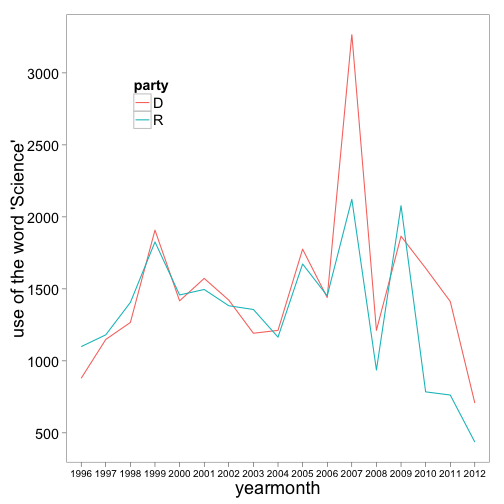
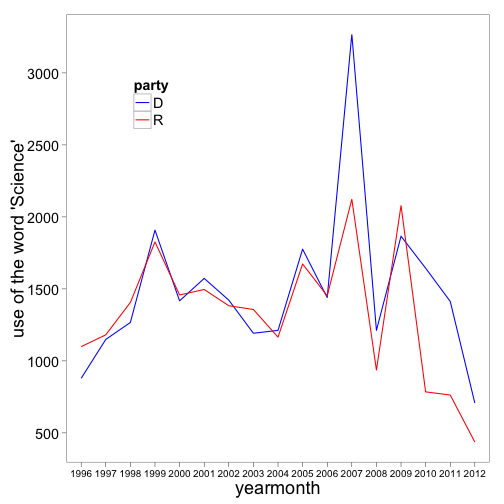
updated post with blue lines for dems and red for republicans

diff --git a/_site/2012-09-01-gov-dat.html b/_site/2012-09-01-gov-dat.html
@@ -64,11 +64,11 @@
 	<div class="row">
 	<p><h1>Getting data on your government</h1></p>	
 	<div class="span3 column">
-		<h4><strong>September  1, 2012 <small>.  . <a href="http://schamberlain.github.com/2012/09/gov-dat/#disqus_thread" data-disqus-identifier="/2012/09/gov-dat/">Comments</a></small></strong>
+		<h4><strong>September  1, 2012 <small>.  . <a href="http://schamberlain.github.com/2012-09-01-gov-dat.html#disqus_thread" data-disqus-identifier="/2012-09-01-gov-dat.html">Comments</a></small></strong>
 		<br/><small>Tags:  <a href="/tags/R" title="View posts tagged with &quot;R&quot;"><u>R</u></a>     <a href="/tags/government" title="View posts tagged with &quot;government&quot;"><u>government</u></a>     <a href="/tags/nytimes" title="View posts tagged with &quot;nytimes&quot;"><u>nytimes</u></a>     <a href="/tags/sunlightlabs" title="View posts tagged with &quot;sunlightlabs&quot;"><u>sunlightlabs</u></a>     <a href="/tags/API" title="View posts tagged with &quot;API&quot;"><u>API</u></a>     <a href="/tags/transparency" title="View posts tagged with &quot;transparency&quot;"><u>transparency</u></a>    </small></h4>
 	</div>		
 	<div class="span9 column">
-		<p class="pull-right"> <a href="/2012/08/get-ecoevo-journal-titles/" title="Previous Post: Getting ecology and evolution journal titles from R"><i class="icon-chevron-left"></i></a> 	    </p> 
+		<p class="pull-right">    </p> 
 	</div>
 </div>
 
@@ -102,9 +102,9 @@ df <span class="o">&lt;-</span> melt<span class="p">(</span>rbind<span class="p"
 df<span class="p">$</span>count <span class="o">&lt;-</span> as.numeric<span class="p">(</span>df<span class="p">$</span>count<span class="p">)</span>
 
 ggplot<span class="p">(</span>df<span class="p">,</span> aes<span class="p">(</span>yearmonth<span class="p">,</span> count<span class="p">,</span> colour <span class="o">=</span> party<span class="p">,</span> group <span class="o">=</span> party<span class="p">))</span> <span class="o">+</span> geom_line<span class="p">()</span> <span class="o">+</span> 
-    scale_colour_manual<span class="p">(</span>values <span class="o">=</span> c<span class="p">(</span><span class="s">&quot;blue&quot;</span><span class="p">,</span> <span class="s">&quot;red&quot;</span><span class="p">))</span> <span class="o">+</span> labs<span class="p">(</span>y <span class="o">=</span> <span class="s">&quot;use of the word &#39;Science&#39;&quot;</span><span class="p">)</span> <span class="o">+</span> 
-    theme_bw<span class="p">(</span>base_size <span class="o">=</span> <span class="m">18</span><span class="p">)</span> <span class="o">+</span> opts<span class="p">(</span>axis.text.x <span class="o">=</span> theme_text<span class="p">(</span>size <span class="o">=</span> <span class="m">10</span><span class="p">),</span> panel.grid.major <span class="o">=</span> theme_blank<span class="p">(),</span> 
-    panel.grid.minor <span class="o">=</span> theme_blank<span class="p">(),</span> legend.position <span class="o">=</span> c<span class="p">(</span><span class="m">0.2</span><span class="p">,</span> <span class="m">0.8</span><span class="p">))</span>
+    labs<span class="p">(</span>y <span class="o">=</span> <span class="s">&quot;use of the word &#39;Science&#39;&quot;</span><span class="p">)</span> <span class="o">+</span> theme_bw<span class="p">(</span>base_size <span class="o">=</span> <span class="m">18</span><span class="p">)</span> <span class="o">+</span> opts<span class="p">(</span>axis.text.x <span class="o">=</span> theme_text<span class="p">(</span>size <span class="o">=</span> <span class="m">10</span><span class="p">),</span> 
+    panel.grid.major <span class="o">=</span> theme_blank<span class="p">(),</span> panel.grid.minor <span class="o">=</span> theme_blank<span class="p">(),</span> legend.position <span class="o">=</span> c<span class="p">(</span><span class="m">0.2</span><span class="p">,</span> 
+        <span class="m">0.8</span><span class="p">))</span>
 </code></pre>
 </div>
 
@@ -118,7 +118,7 @@ ggplot<span class="p">(</span>df<span class="p">,</span> aes<span class="p">(</s
 <div class="highlight"><pre><code class="r">library<span class="p">(</span>plyr<span class="p">)</span>
 
 <span class="c1"># Let&#39;s get Nancy Pelosi&#39;s entity ID</span>
-sll_ts_aggregatesearch<span class="p">(</span><span class="s">&quot;Nancy Pelosi&quot;</span><span class="p">)[[</span><span class="m">1</span><span class="p">]]</span>
+sll_ts_aggregatesearch<span class="p">(</span><span class="s">&#39;Nancy Pelosi&#39;</span><span class="p">)[[</span><span class="m">1</span><span class="p">]]</span>
 </code></pre>
 </div>
 
@@ -176,7 +176,7 @@ NULL
 
 
 <div class="highlight"><pre><code class="r"><span class="c1"># Her entity ID</span>
-sll_ts_aggregatesearch<span class="p">(</span><span class="s">&quot;Nancy Pelosi&quot;</span><span class="p">)[[</span><span class="m">1</span><span class="p">]]$</span>id
+sll_ts_aggregatesearch<span class="p">(</span><span class="s">&#39;Nancy Pelosi&#39;</span><span class="p">)[[</span><span class="m">1</span><span class="p">]]$</span>id
 </code></pre>
 </div>
 
@@ -191,8 +191,8 @@ sll_ts_aggregatesearch<span class="p">(</span><span class="s">&quot;Nancy Pelosi
 
 
 <div class="highlight"><pre><code class="r"><span class="c1"># And search for her top donors by sector</span>
-nancy <span class="o">&lt;-</span> ldply<span class="p">(</span>sll_ts_aggregatetopsectors<span class="p">(</span>sll_ts_aggregatesearch<span class="p">(</span><span class="s">&quot;Nancy Pelosi&quot;</span><span class="p">)[[</span><span class="m">1</span><span class="p">]]$</span>id<span class="p">))</span>
-nancy  <span class="c1"># but just abbreviations for sectors</span>
+nancy <span class="o">&lt;-</span> ldply<span class="p">(</span>sll_ts_aggregatetopsectors<span class="p">(</span>sll_ts_aggregatesearch<span class="p">(</span><span class="s">&#39;Nancy Pelosi&#39;</span><span class="p">)[[</span><span class="m">1</span><span class="p">]]$</span>id<span class="p">))</span>
+nancy <span class="c1"># but just abbreviations for sectors</span>
 </code></pre>
 </div>
 
@@ -216,23 +216,21 @@ nancy  <span class="c1"># but just abbreviations for sectors</span>
 
 
 
-<div class="highlight"><pre><code class="r">data<span class="p">(</span>sll_ts_sectors<span class="p">)</span>  <span class="c1"># load sectors abbrevations data</span>
-nancy2 <span class="o">&lt;-</span> merge<span class="p">(</span>nancy<span class="p">,</span> sll_ts_sectors<span class="p">,</span> by <span class="o">=</span> <span class="s">&quot;sector&quot;</span><span class="p">)</span>  <span class="c1"># attach full sector names</span>
-nancy2_melt <span class="o">&lt;-</span> melt<span class="p">(</span>nancy2<span class="p">[,</span> <span class="m">-1</span><span class="p">],</span> id.vars <span class="o">=</span> <span class="m">3</span><span class="p">)</span>
+<div class="highlight"><pre><code class="r">data<span class="p">(</span>sll_ts_sectors<span class="p">)</span> <span class="c1"># load sectors abbrevations data</span>
+nancy2 <span class="o">&lt;-</span> merge<span class="p">(</span>nancy<span class="p">,</span> sll_ts_sectors<span class="p">,</span> by<span class="o">=</span><span class="s">&quot;sector&quot;</span><span class="p">)</span> <span class="c1"># attach full sector names</span>
+nancy2_melt <span class="o">&lt;-</span> melt<span class="p">(</span>nancy2<span class="p">[,</span><span class="m">-1</span><span class="p">],</span> id.vars<span class="o">=</span><span class="m">3</span><span class="p">)</span>
 nancy2_melt<span class="p">$</span>value <span class="o">&lt;-</span> as.numeric<span class="p">(</span>nancy2_melt<span class="p">$</span>value<span class="p">)</span>
-
-<span class="c1"># and lets plot some results</span>
-ggplot<span class="p">(</span>nancy2_melt<span class="p">,</span> aes<span class="p">(</span>sector_name<span class="p">,</span> value<span class="p">))</span> <span class="o">+</span> geom_bar<span class="p">()</span> <span class="o">+</span> coord_flip<span class="p">()</span> <span class="o">+</span> facet_wrap<span class="p">(</span>~variable<span class="p">,</span> 
-    scales <span class="o">=</span> <span class="s">&quot;free&quot;</span><span class="p">,</span> ncol <span class="o">=</span> <span class="m">1</span><span class="p">)</span>
+ggplot<span class="p">(</span>nancy2_melt<span class="p">,</span> aes<span class="p">(</span>sector_name<span class="p">,</span> value<span class="p">))</span> <span class="o">+</span> <span class="c1"># and lets plot some results</span>
+    geom_bar<span class="p">()</span> <span class="o">+</span>
+    coord_flip<span class="p">()</span> <span class="o">+</span>
+    facet_wrap<span class="p">(</span>~ variable<span class="p">,</span> scales<span class="o">=</span><span class="s">&quot;free&quot;</span><span class="p">,</span> ncol<span class="o">=</span><span class="m">1</span><span class="p">)</span>
 </code></pre>
 </div>
 
 
 <p><img src="/img/unnamed-chunk-2.png" alt="center" /></p>
 
-<div class="highlight"><pre><code class="r"><span class="c1">## It looks like a lot of individual donations (the count facet) by</span>
-<span class="c1">## finance/insurance/realestate, but by amount, the most (by slim margin)</span>
-<span class="c1">## is from labor organizations.</span>
+<div class="highlight"><pre><code class="r"><span class="c1">## It looks like a lot of individual donations (the count facet) by finance/insurance/realestate, but by amount, the most (by slim margin) is from labor organizations.</span>
 </code></pre>
 </div>
 
@@ -260,7 +258,7 @@ $first_name
 
 
 
-<div class="highlight"><pre><code class="r"><span class="c1"># we can get her twitter id from this bio, and search twitter using</span>
+<div class="highlight"><pre><code class="r"><span class="c1"># we can get his twitter id from this bio, and search twitter using</span>
 <span class="c1"># twitteR package</span>
 akintwitter <span class="o">&lt;-</span> out<span class="p">[[</span><span class="m">3</span><span class="p">]][[</span><span class="m">1</span><span class="p">]]$</span>twitter_id
 
@@ -305,7 +303,7 @@ tweets<span class="p">[</span><span class="m">1</span>:<span class="m">5</span><
 
 		</div>
 		 <footer class="footer">		        
-	<p class="pull-right"> <a href="/2012/08/get-ecoevo-journal-titles/" title="Previous Post: Getting ecology and evolution journal titles from R">&laquo; Previous Blog Post</a> 	  |  <a href="#">Back to top</a>  |   </p> 
+	<p class="pull-right">  |  <a href="#">Back to top</a>  |   </p> 
 
 	<br><br/>
 	<br><br/>

diff --git a/2012-09-01-gov-dat.md b/2012-09-01-gov-dat.md
@@ -13,6 +13,7 @@ tags:
 - transparency
 ---
 
+
 *********
 
 I created an R package a while back to interact with some APIs that serve up data on what our elected represenatives are up to, including the [New York Times Congress API](http://developer.nytimes.com/), and the [Sunlight Labs API](http://services.sunlightlabs.com/).
@@ -38,9 +39,9 @@ df <- melt(rbind(data.frame(party = rep("D", nrow(dems)), dems), data.frame(part
 df$count <- as.numeric(df$count)
 
 ggplot(df, aes(yearmonth, count, colour = party, group = party)) + geom_line() + 
-    scale_colour_manual(values = c("blue", "red")) + labs(y = "use of the word 'Science'") + 
-    theme_bw(base_size = 18) + opts(axis.text.x = theme_text(size = 10), panel.grid.major = theme_blank(), 
-    panel.grid.minor = theme_blank(), legend.position = c(0.2, 0.8))
+    labs(y = "use of the word 'Science'") + theme_bw(base_size = 18) + opts(axis.text.x = theme_text(size = 10), 
+    panel.grid.major = theme_blank(), panel.grid.minor = theme_blank(), legend.position = c(0.2, 
+        0.8))
 {% endhighlight %}
 
 ![center](/img/unnamed-chunk-1.png) 
@@ -54,7 +55,7 @@ ggplot(df, aes(yearmonth, count, colour = party, group = party)) + geom_line() +
 library(plyr)
 
 # Let's get Nancy Pelosi's entity ID
-sll_ts_aggregatesearch("Nancy Pelosi")[[1]]
+sll_ts_aggregatesearch('Nancy Pelosi')[[1]]
 {% endhighlight %}
 
 
@@ -112,7 +113,7 @@ NULL
 {% highlight r %}
 
 # Her entity ID
-sll_ts_aggregatesearch("Nancy Pelosi")[[1]]$id
+sll_ts_aggregatesearch('Nancy Pelosi')[[1]]$id
 {% endhighlight %}
 
 
@@ -126,8 +127,8 @@ sll_ts_aggregatesearch("Nancy Pelosi")[[1]]$id
 {% highlight r %}
 
 # And search for her top donors by sector
-nancy <- ldply(sll_ts_aggregatetopsectors(sll_ts_aggregatesearch("Nancy Pelosi")[[1]]$id))
-nancy  # but just abbreviations for sectors
+nancy <- ldply(sll_ts_aggregatetopsectors(sll_ts_aggregatesearch('Nancy Pelosi')[[1]]$id))
+nancy # but just abbreviations for sectors
 {% endhighlight %}
 
 
@@ -149,23 +150,21 @@ nancy  # but just abbreviations for sectors
 
 
 {% highlight r %}
-data(sll_ts_sectors)  # load sectors abbrevations data
-nancy2 <- merge(nancy, sll_ts_sectors, by = "sector")  # attach full sector names
-nancy2_melt <- melt(nancy2[, -1], id.vars = 3)
+data(sll_ts_sectors) # load sectors abbrevations data
+nancy2 <- merge(nancy, sll_ts_sectors, by="sector") # attach full sector names
+nancy2_melt <- melt(nancy2[,-1], id.vars=3)
 nancy2_melt$value <- as.numeric(nancy2_melt$value)
-
-# and lets plot some results
-ggplot(nancy2_melt, aes(sector_name, value)) + geom_bar() + coord_flip() + facet_wrap(~variable, 
-    scales = "free", ncol = 1)
+ggplot(nancy2_melt, aes(sector_name, value)) + # and lets plot some results
+	geom_bar() +
+	coord_flip() +
+	facet_wrap(~ variable, scales="free", ncol=1)
 {% endhighlight %}
 
 ![center](/img/unnamed-chunk-2.png) 
 
 {% highlight r %}
 
-## It looks like a lot of individual donations (the count facet) by
-## finance/insurance/realestate, but by amount, the most (by slim margin)
-## is from labor organizations.
+## It looks like a lot of individual donations (the count facet) by finance/insurance/realestate, but by amount, the most (by slim margin) is from labor organizations.
 {% endhighlight %}
 
 
@@ -193,7 +192,7 @@ $first_name
 
 {% highlight r %}
 
-# we can get her twitter id from this bio, and search twitter using
+# we can get his twitter id from this bio, and search twitter using
 # twitteR package
 akintwitter <- out[[3]][[1]]$twitter_id
 
